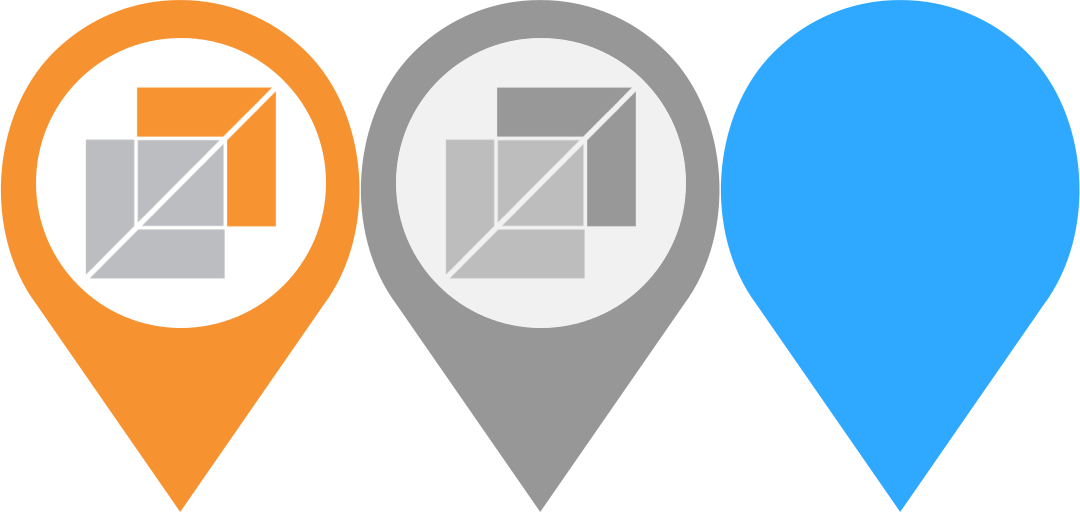
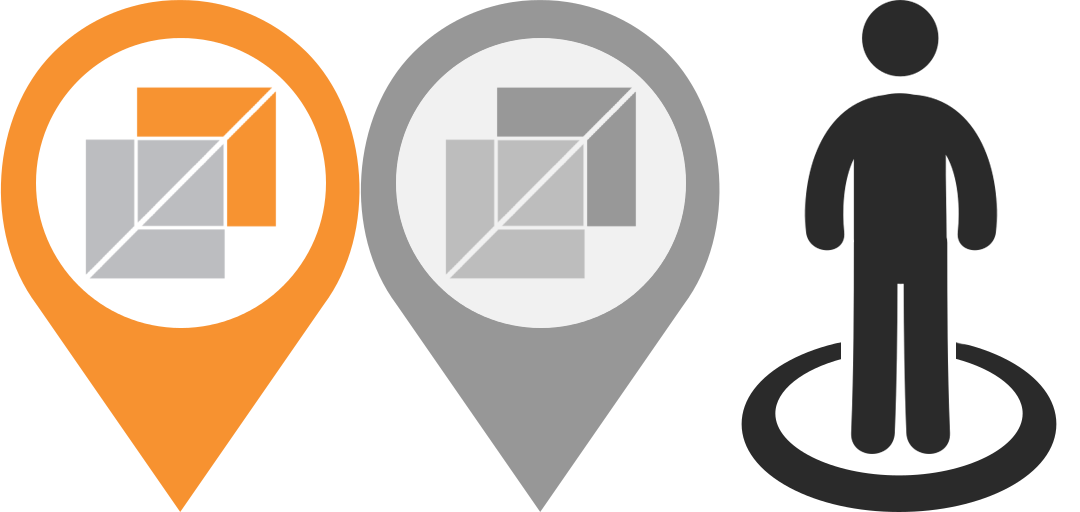
changed popup styling and added a cool pin for current location

Changed region(s): [[0.6417, 0.0, 1.0, 1.0]]

diff --git a/frontend/src/pages/MapView/index.jsx b/frontend/src/pages/MapView/index.jsx
@@ -8,6 +8,7 @@ import "./styles.scss";
 import DeckGL from "@deck.gl/react";
 import { IconLayer } from "@deck.gl/layers";
 import MarkerImg from "../../assets/images/marker-atlas.png";
+import MaximizeImg from "../../assets/images/maximize-white.svg";
 
 const pinSize = 45;
 const searchSuggestions = [];
@@ -252,7 +253,12 @@ class MapView extends Component {
                     {this.state.popup.description}
                   </div>
                   <button tabIndex="0" className="popup-max" onClick="">
-                    See More
+                    See More{" "}
+                    <img
+                      src={MaximizeImg}
+                      alt="icon"
+                      className="popup-button-icon"
+                    />
                   </button>
                 </div>
               </Popup>

diff --git a/frontend/src/pages/MapView/styles.scss b/frontend/src/pages/MapView/styles.scss
@@ -25,7 +25,7 @@
 
 .popup {
     max-width: 260px;
-    max-height: 120px;
+    max-height: 140px;
     overflow: hidden;
 }
 .mapboxgl-popup{
@@ -75,3 +75,9 @@
   .popup-max:hover {
     background-color: #f9ac61;
   }
+
+.popup-button-icon {
+  height: 12px;
+  margin-left: 3px;
+  margin-top: -3px;
+}
